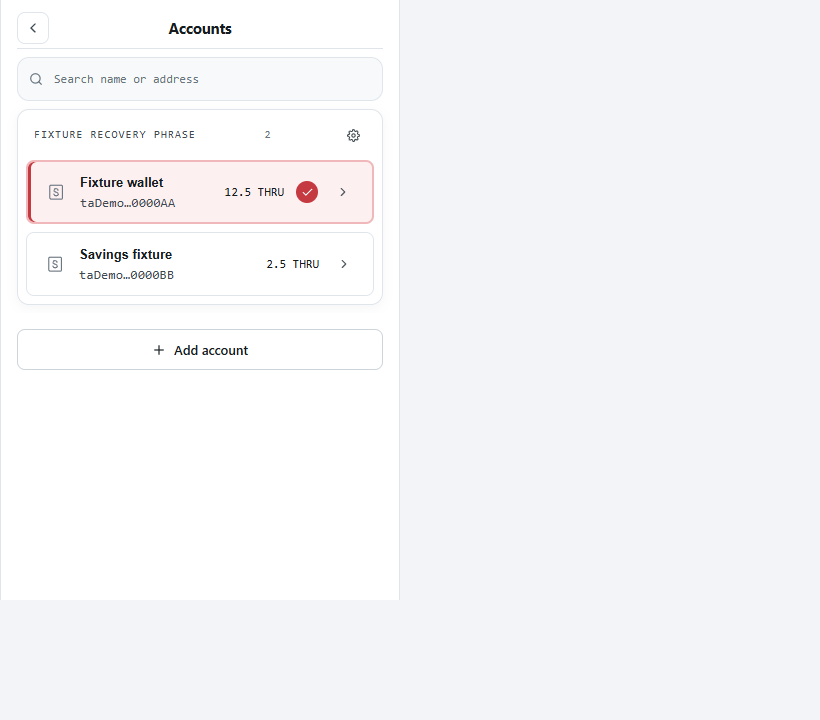
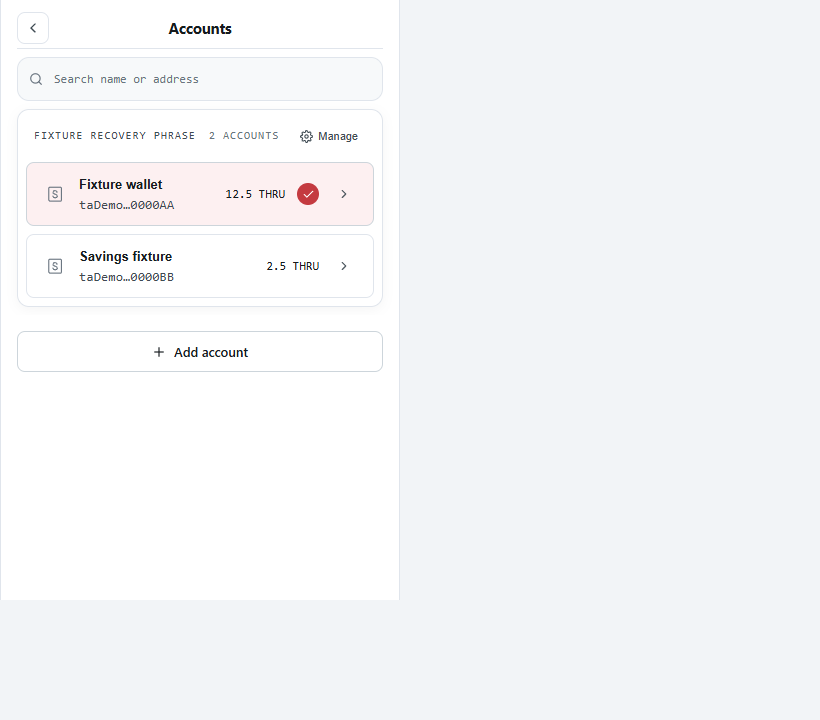
Fix browser test assertions, refresh visual record, and document D-035
Resolve all CI and audit blockers identified for PR #31:

- Fix address-contrast.mjs alpha compositing math on semi-transparent backgrounds
- Await network-chooser dialog overlay readiness and check single-surface notification
- Filter Chrome engine unload deprecation notice in capture-ui.mjs
- Regenerate accounts screenshots and manifest.json to match latest source hashes
- Add D-035 decision and document permanent browser tooling in test/browser/README.md

Changed region(s): [[0.0305, 0.1833, 0.4573, 0.4278], [0.1829, 0.4583, 0.3049, 0.5194]]

diff --git a/test/browser/README.md b/test/browser/README.md
@@ -8,6 +8,28 @@ for those gates. `npm test` is the separate Node/DOM-shim suite and does not run
 Build first. Supply a locally installed `playwright-core` module and a compatible Chromium executable;
 they are intentionally not wallet runtime dependencies. Example (adjust paths for your machine):
 
+On this Windows machine, Playwright is installed permanently at
+`%LOCALAPPDATA%\thru-wallet-browser-tools\node_modules\playwright-core` (exact pin `1.65.1`).
+Browsers are retained in `%LOCALAPPDATA%\ms-playwright`; the existing cached Chromium is reused.
+The fixture helper discovers this installation automatically if `PLAYWRIGHT_MODULE` is unset,
+and uses Playwright's matching cached browser when `CHROME_BIN` is unset. Normal runs require no
+install step or download:
+
+```powershell
+npm run test:browser
+node test/browser/capture-ui.mjs dist docs/screenshots/current
+```
+
+The Windows user environment also persists `PLAYWRIGHT_MODULE`, `CHROME_BIN`,
+`PLAYWRIGHT_BROWSERS_PATH`, `PLAYWRIGHT_SKIP_BROWSER_DOWNLOAD=1`, and
+`PLAYWRIGHT_SKIP_BROWSER_GC=1`. New processes inherit these settings; the helper's permanent-path
+fallback also works in an already-running editor. No test/capture auto-installs or downloads tooling.
+Do not reinstall browsers for routine work. A missing browser or intentional version upgrade needs
+an explicit setup decision; use the existing cache first. Branded Chrome may run mocked fixtures,
+but use Playwright's bundled Chromium for the native unpacked-extension smoke check.
+
+For other machines or an explicit override:
+
 ```sh
 npm run build
 npm install --prefix /tmp/thru-browser-tools --no-save playwright-core@1.65.1

diff --git a/docs/DOCS_INDEX.md b/docs/DOCS_INDEX.md
@@ -63,7 +63,7 @@ Each document owns **one** domain. Link to the owner instead of duplicating coun
 | `docs/PROJECT_LEDGER.md` | Canonical repository identifiers and append-only contract milestone history (`v5–v33`). |
 | `docs/ARCHITECTURE.md` | Dependency graph, authoritative module ownership, v32 signing/consent boundary, shared UI platform, and scoped storage. |
 | `docs/BUILD_SPEC.md` | Shipped product behavior, wallet/keyring container model, route requirements, security matrix, and design system. |
-| `docs/DECISIONS.md` | Durable architectural decisions (`D-001` through `D-034`) with trade-offs and consequences. |
+| `docs/DECISIONS.md` | Durable architectural decisions (`D-001` through `D-035`) with trade-offs and consequences. |
 | `docs/BACKEND_GAPS.md` | Implemented backend capabilities vs open live-chain/protocol gaps and contract compatibility policy. |
 | `docs/MODULE_BOUNDARIES.md` | Enforced core layering and target isolation rules for future `src/features/<id>/` modules. |
 | `docs/GLOBAL_SMART_CONTRACT_POLICY.md` | Smart contract inspection/reuse rules and the 6 Mainnet deployment gates. |

diff --git a/docs/DECISIONS.md b/docs/DECISIONS.md
@@ -665,3 +665,12 @@ verification authority. CI retains per-run capture artifacts; it does not commit
 vault, secret disclosure, signing or chain calls. Record unsupported/uncaptured states and distinguish
 fixtures from native MV3 and live-network verification. Maintainers inspect images, refresh them
 with confirmed changes, and recapture actual merged builds; automation alone is not design approval.
+
+## D-035 - Retain browser tooling and reuse cached downloads (2026-11-23, owner directive)
+
+The owner requires a permanent Playwright installation: routine agent work must not repeatedly
+download the browser, consume bandwidth or recreate temporary tooling. Keep the exact pinned
+development module outside wallet dependencies, retain the existing user browser cache and persist
+the module/browser paths. The browser fixture helper discovers the permanent Windows installation
+without per-turn environment setup. Normal tests and captures never install or download tooling;
+an intentional upgrade or genuinely missing browser requires a separate setup decision.

diff --git a/docs/screenshots/current/gallery.md b/docs/screenshots/current/gallery.md
@@ -2,7 +2,7 @@
 
 TESTED: real built UI, mocked bridge; not MV3 or live-network verification
 
-Captured: 2026-11-23T14:49:28.072Z. Source revision: `274df9bbd3deef4997216837a3218b738430b130` (branch `pr-31`).
+Captured: 2026-11-23T20:01:17.880Z. Source revision: `197c8336cce504472850631b82e98657c714ac1b` (branch `pr-31`).
 Browser: 157.0.8103.79, win32. See [manifest](manifest.json) for hashes, source changes and limitations.
 
 ## welcome / light / 400x600
